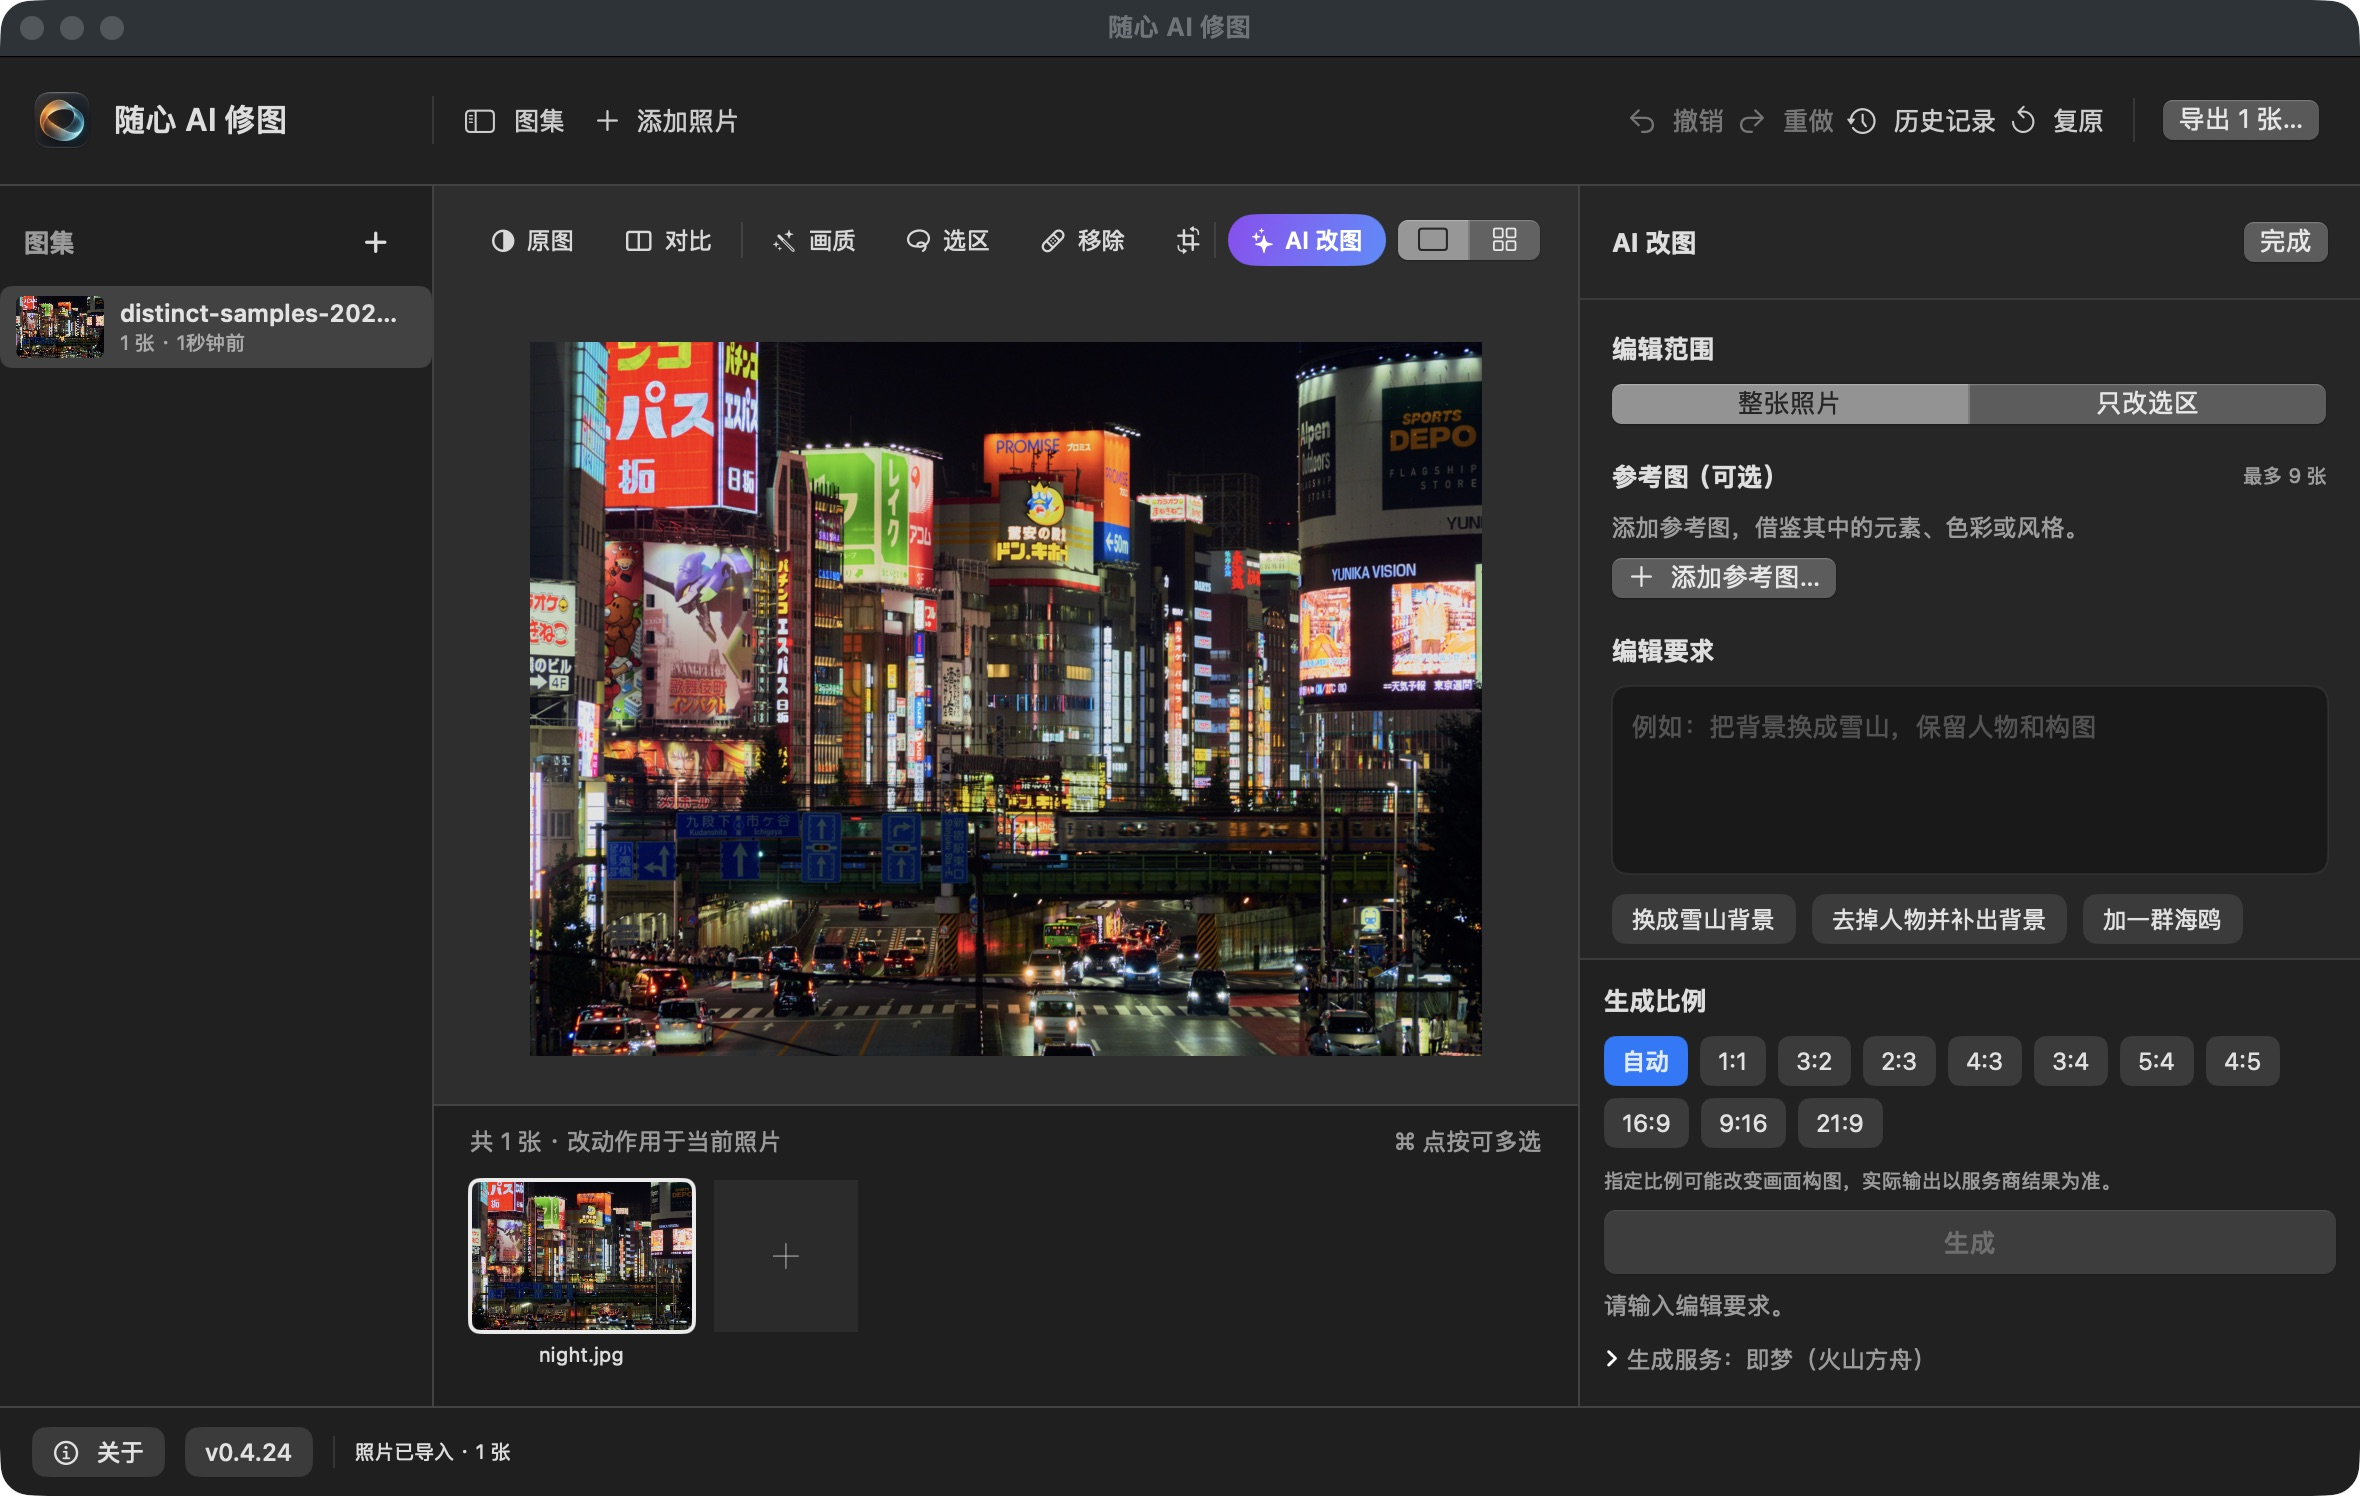
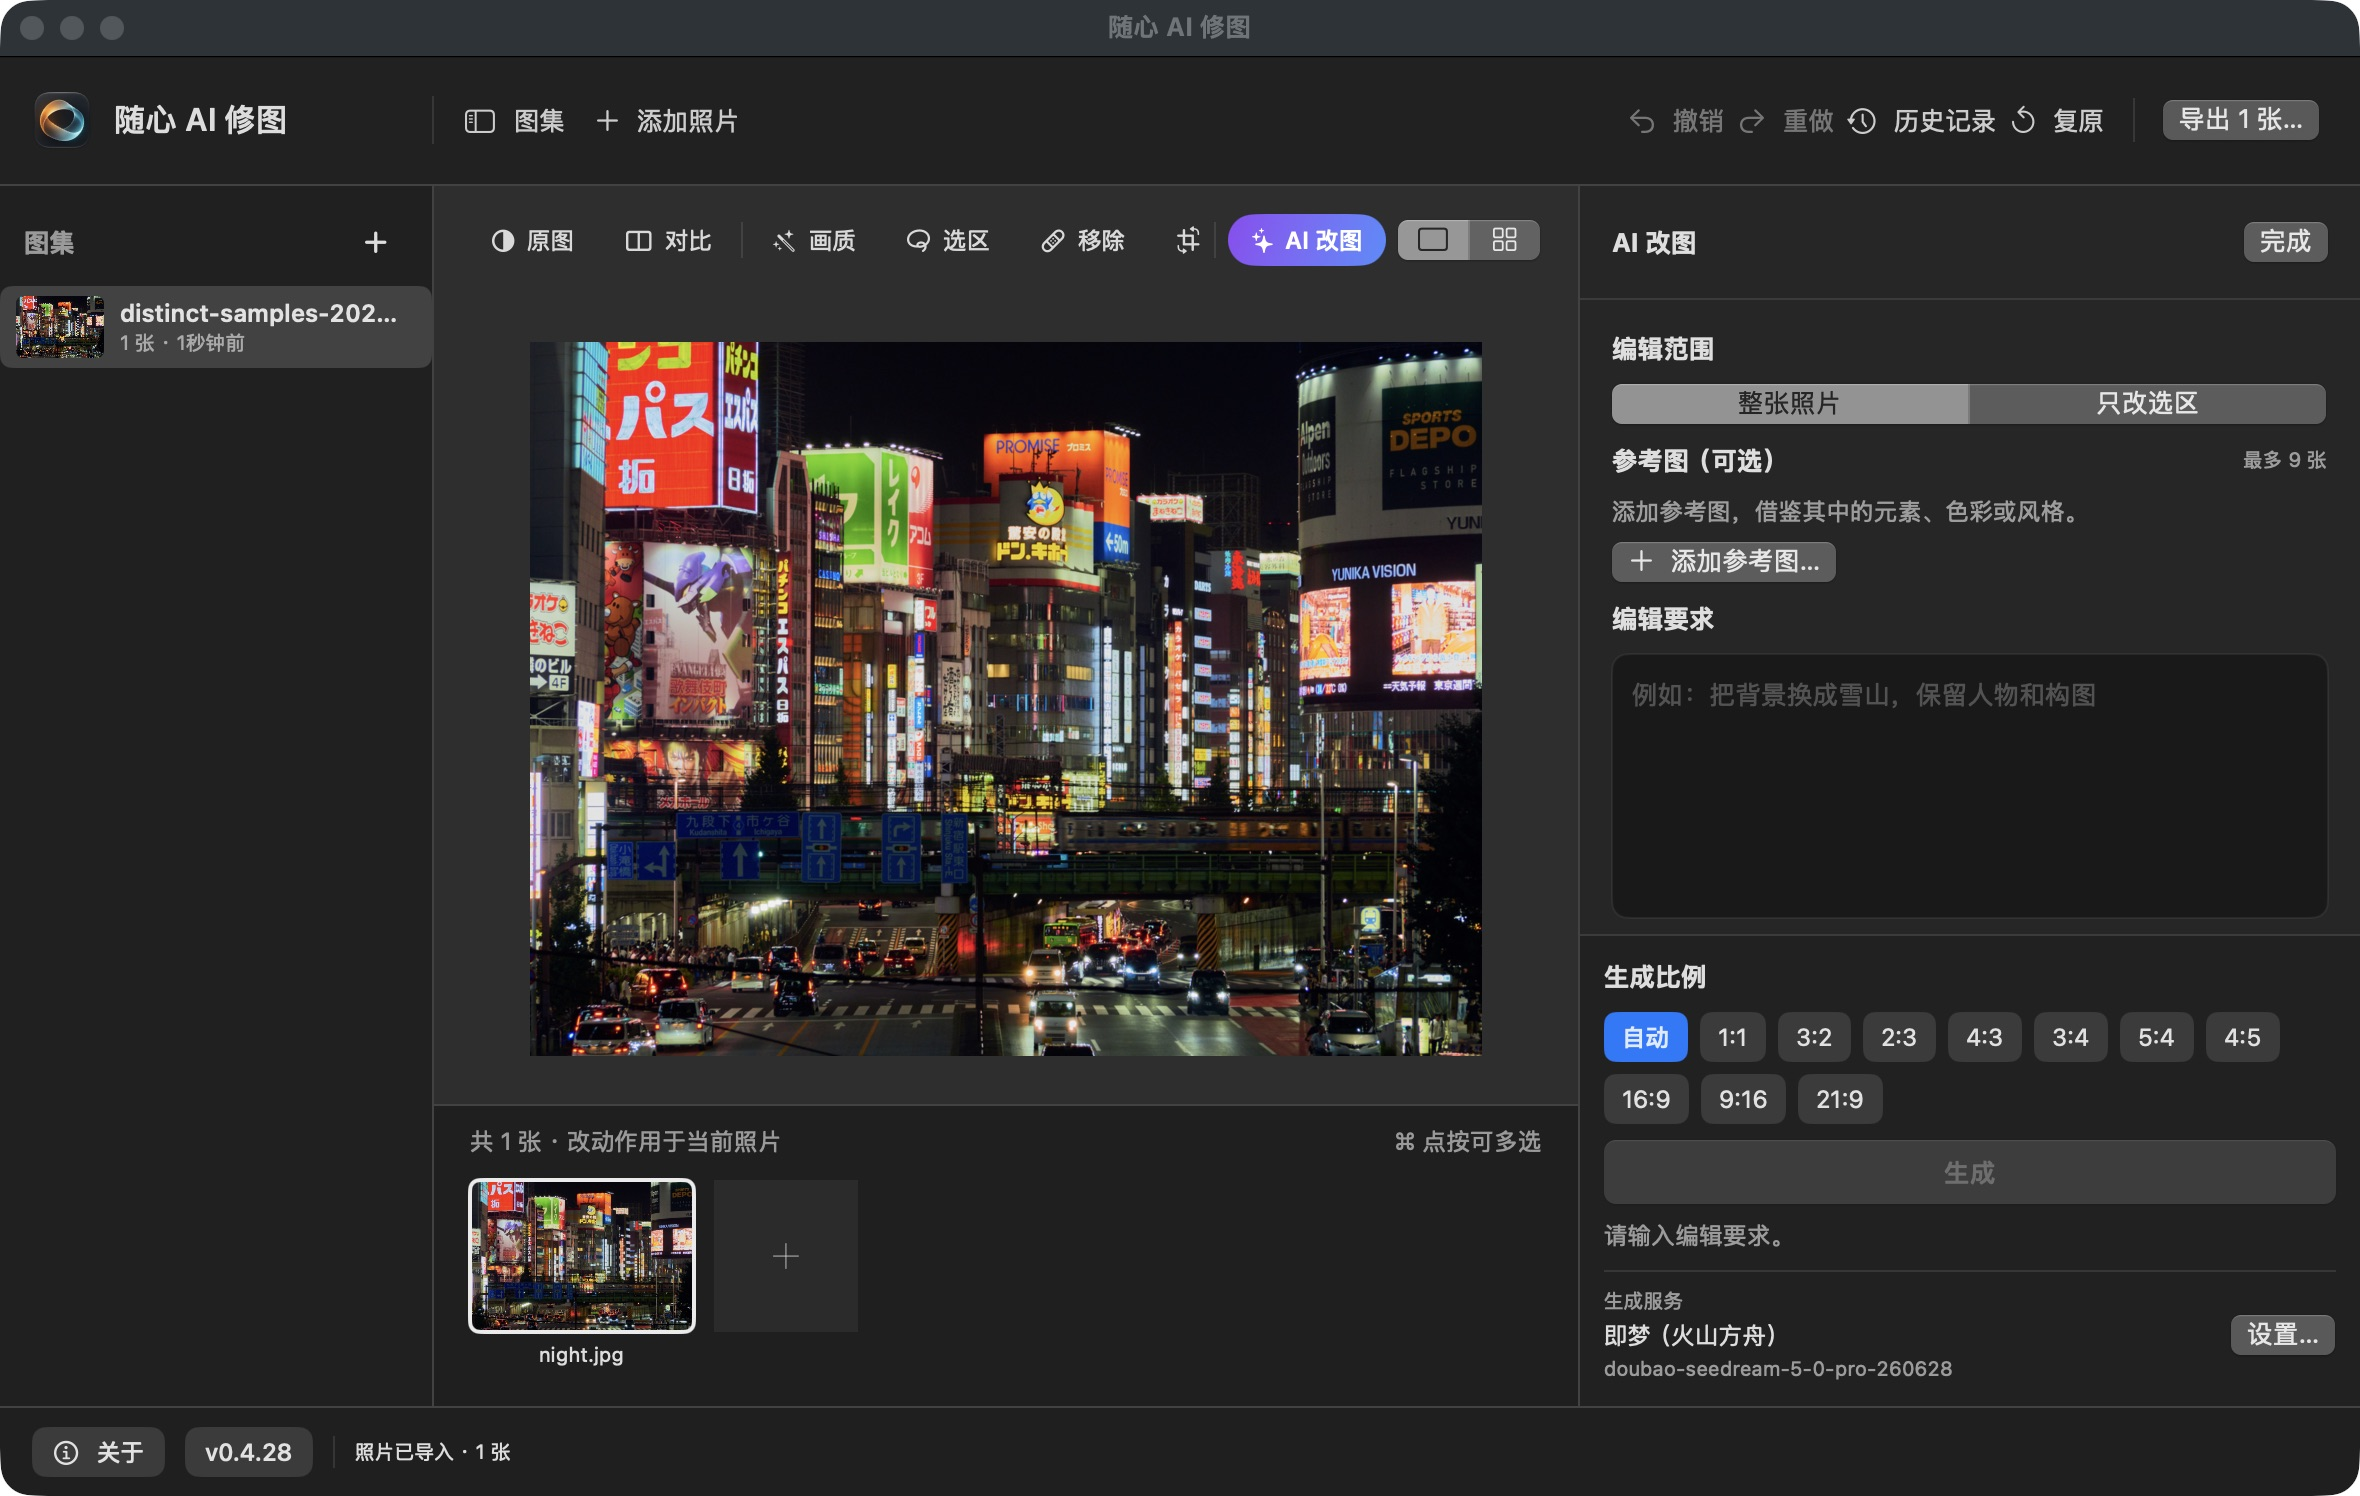
Keep edit controls visible and fix comparison state

Changed region(s): [[0.6805, 0.5842, 0.9898, 0.9225], [0.6805, 0.2767, 0.897, 0.492], [0.928, 0.3075, 0.9898, 0.3382]]

diff --git a/app/Sources/PhotoEdit/Views/AIEditPanel.swift b/app/Sources/PhotoEdit/Views/AIEditPanel.swift
@@ -29,7 +29,7 @@ struct AIEditPanel: View {
     var body: some View {
         VStack(spacing: 0) {
         ScrollView {
-            VStack(alignment: .leading, spacing: 18) {
+            VStack(alignment: .leading, spacing: 10) {
                 section("编辑范围") {
                     Picker("范围", selection: $onlySelection) {
                         Text("整张照片").tag(false)
@@ -171,8 +171,6 @@ struct AIEditPanel: View {
                                     .background(aspectRatio == ratio ? Color.accentColor : Color(white: 0.23), in: RoundedRectangle(cornerRadius: 6))
                             }
                         }
-                        Text("指定比例可能改变画面构图，实际输出以服务商结果为准。")
-                            .font(.caption).foregroundStyle(.secondary)
                     }
                 }
                 Button {
@@ -184,26 +182,22 @@ struct AIEditPanel: View {
                               || editor.isEmpty || (onlySelection && !hasSelection))
                 if store.imageServiceReady && onlySelection && !hasSelection { Text("请先选择编辑区域。") .font(.callout).foregroundStyle(.secondary) }
                 else if store.imageServiceReady && editor.isEmpty { Text("请输入编辑要求。") .font(.callout).foregroundStyle(.secondary) }
-                DisclosureGroup {
-                    Button("服务设置…") { store.settingsTab = "image" }.buttonStyle(.link)
-                    if let service, store.imageServiceReady {
-                        info("服务", service.title)
-                        info("模型", store.imageModelName.isEmpty ? service.defaultModel : store.imageModelName)
-                        info("发送内容", (chosenRatio != nil ? "不带调色的照片（含已应用的裁切和旋转）" : "不带调色的原片") + "，长边最多 2048 像素" + (referencePaths.isEmpty ? "" : "＋\(referencePaths.count) 张参考图（按缩略图顺序跟在后面）"))
-                        info("费用", service.paid ? "按\(service.title)的标准计费" : "不收费")
-                        info("结果", onlySelection && hasSelection ? "只替换选区里的部分，作为新版本，可撤销" : "整张新图，作为新版本，调色照常套用，可撤销")
-                    } else {
-                        HStack(spacing: 10) {
-                            Image(systemName: "exclamationmark.triangle.fill").foregroundStyle(.yellow)
-                            Text("还没设置 AI 改图 API").font(.callout.weight(.semibold)).foregroundStyle(.yellow)
-                            Spacer()
-                            Button("去设置") { store.settingsTab = "image" }.buttonStyle(.borderedProminent)
-                        }.padding(12).background(Color.yellow.opacity(0.12), in: RoundedRectangle(cornerRadius: 8))
+                Divider().padding(.top, 2)
+                HStack(alignment: .center, spacing: 10) {
+                    VStack(alignment: .leading, spacing: 3) {
+                        Text("生成服务").font(.caption).foregroundStyle(.secondary)
+                        if let service, store.imageServiceReady {
+                            Text(service.title).font(.callout)
+                            Text(store.imageModelName.isEmpty ? service.defaultModel : store.imageModelName)
+                                .font(.caption).foregroundStyle(.secondary).lineLimit(1).truncationMode(.middle)
+                        } else {
+                            Text("尚未设置").font(.callout).foregroundStyle(.secondary)
+                        }
                     }
-                } label: {
-                    Text(service.map { "生成服务：\($0.title)" } ?? "生成服务：未设置")
-                        .font(.callout).foregroundStyle(.secondary)
+                    Spacer(minLength: 8)
+                    Button("设置…") { store.settingsTab = "image" }.buttonStyle(.bordered)
                 }
+
         }.padding(12).background(Color(white: 0.13))
         }
         .onAppear {
@@ -277,7 +271,7 @@ struct AIEditPanel: View {
                           placeholder: "例如：把背景换成雪山，保留人物和构图",
                           onMention: { if !figures.isEmpty { showMention = true } },
                           onTyping: { if showMention { showMention = false } })
-                .frame(height: showMention ? 54 : 74)
+                .frame(height: showMention ? 88 : 112)
             if showMention { mentionList }
         }
         .padding(10)

diff --git a/app/Tests/RegionAnalysisTests.swift b/app/Tests/RegionAnalysisTests.swift
@@ -3,6 +3,25 @@ import Testing
 @testable import PhotoEdit
 
 @MainActor @Suite struct RegionAnalysisTests {
+    @Test func compareReplacesOriginalAndClearsHiddenOverlay() {
+        let store = WorkspaceStore(engine: EngineClient(root: URL(fileURLWithPath: "/nonexistent-suitone-test")))
+        let photo = ImportedPhoto(id: "photo", path: "/unused", name: "photo", thumbnail: "", original: "", width: 1, height: 1, similarTo: nil)
+        store.photos = [PhotoRecord(imported: photo, assetID: photo.id)]
+        store.currentID = photo.id
+        store.toggleOriginal()
+        store.toggleCompare()
+        #expect(store.splitCompare && !store.showOriginal)
+        store.toggleOriginal()
+        #expect(store.showOriginal && !store.splitCompare)
+        store.overlay = "sky"
+        store.toggleCompare()
+        #expect(store.splitCompare && !store.showOriginal && store.overlay.isEmpty)
+        store.toggleCompare()
+        #expect(!store.splitCompare)
+        store.inspectorTab = "crop"
+        #expect(!store.compareAvailable)
+    }
+
     @Test func failedAnalysisCanBeRetriedAndDoesNotRestartInFlight() async {
         let store = WorkspaceStore(engine: EngineClient(root: URL(fileURLWithPath: "/nonexistent-suitone-test")))
         let photo = ImportedPhoto(id: "photo", path: "/unused", name: "photo", thumbnail: "", original: "", width: 1, height: 1, similarTo: nil)

diff --git a/app/Sources/PhotoEdit/Views/ContentView.swift b/app/Sources/PhotoEdit/Views/ContentView.swift
@@ -124,10 +124,10 @@ private struct CanvasHeader: View {
     @Bindable var store: WorkspaceStore
     @ViewBuilder private func toolButtons(spacing: CGFloat) -> some View {
         HStack(spacing: spacing) {
-            chip("原图", "circle.lefthalf.filled", store.showOriginal, help: "按 \\ 切换整张原图") { store.showOriginal.toggle() }
+            chip("原图", "circle.lefthalf.filled", store.showOriginal, help: "按 \\ 切换整张原图") { store.toggleOriginal() }
             chip("对比", "rectangle.split.2x1", store.splitCompare && !store.grid,
-                 help: "拖动画面上的分隔线比较原图和调整后") { store.splitCompare.toggle() }
-                .disabled(store.grid)
+                 help: store.compareAvailable ? "拖动画面上的分隔线比较原图和调整后" : "请先完成当前工具，再查看对比") { store.toggleCompare() }
+                .disabled(!store.compareAvailable)
             Divider().frame(height: 18)
             chip("画质", "wand.and.stars", store.inspectorTab == "quality", help: "降噪与放大") { pick("quality") }
                 .disabled(store.current == nil || store.controlsBlocked)

diff --git a/app/Sources/PhotoEdit/Stores/WorkspaceStore.swift b/app/Sources/PhotoEdit/Stores/WorkspaceStore.swift
@@ -24,6 +24,24 @@ final class WorkspaceStore {
     /// 左右滑动对比：左侧原图、右侧调整后；splitPosition 为分隔线位置（0–1）。
     var splitCompare = false
     var splitPosition = 0.5
+    var compareAvailable: Bool {
+        current != nil && !grid && inspectorTab != "crop" && !repairEnabled && repairDraft == nil
+            && !(inspectorTab == "aiedit" && !selectionParts.isEmpty)
+    }
+    func toggleOriginal() {
+        showOriginal.toggle()
+        if showOriginal { splitCompare = false }
+    }
+    func toggleCompare() {
+        guard compareAvailable else { return }
+        if showOriginal || !overlay.isEmpty {
+            showOriginal = false
+            overlay = ""
+            splitCompare = true
+        } else {
+            splitCompare.toggle()
+        }
+    }
     var grid = false
     var busy = false
     var importing = false

diff --git a/app/Sources/PhotoEdit/App/PhotoEditApp.swift b/app/Sources/PhotoEdit/App/PhotoEditApp.swift
@@ -57,7 +57,7 @@ struct PhotoEditApp: App {
                 Button("重做") { store.redo() }.keyboardShortcut("z",modifiers:[.command,.shift]).disabled(!store.canRedo || store.controlsBlocked)
             }
             CommandMenu("照片") {
-                Button("显示／隐藏原图") { store.showOriginal.toggle() }.keyboardShortcut("\\",modifiers:[])
+                Button("显示／隐藏原图") { store.toggleOriginal() }.keyboardShortcut("\\",modifiers:[])
                 Button("保存快照") { store.snapshot() }.keyboardShortcut("k").disabled(store.current == nil)
                 Button("移除杂物") { store.inspectorTab = "repair" }.keyboardShortcut("r").disabled(store.current == nil || store.controlsBlocked)
                 Button("选择全部照片") { store.selectedIDs = Set(store.photos.map(\.id)) }.keyboardShortcut("a")

diff --git a/app/Sources/PhotoEdit/Views/InspectorView.swift b/app/Sources/PhotoEdit/Views/InspectorView.swift
@@ -43,6 +43,7 @@ struct InspectorView: View {
                 store.finishRepairTransition(to: tab)
                 if old == "cutout" { store.clearRepairSelection() }
                 store.repairEnabled = ["repair", "cutout", "selection"].contains(tab)
+                if !store.compareAvailable { store.splitCompare = false }
                 store.cutoutPreview = nil; store.cutoutSnapshot = nil
                 if tab == "cutout" { store.repairTool = "object" }
                 store.overlay = ""; store.showOriginal = false; store.localRegion = nil

diff --git a/CHANGELOG.md b/CHANGELOG.md
@@ -1,9 +1,9 @@
 # 更新记录
 
-## 0.4.24 · 2026-10-31（开发版）
+## 0.4.28 · 2026-10-31（开发版）
 
-- AI 改图在底部直接选择生成比例，将服务设置放在生成按钮下方；选区编辑和 Ideogram 精确编辑保持输入比例。
-- 旋转预览复用调色结果，减少重复计算。
+- AI 改图在底部直接选择生成比例，加高编辑要求输入框，将服务设置放在生成按钮下方；选区编辑和 Ideogram 精确编辑保持输入比例。
+- 旋转预览复用调色结果，减少重复计算；修复原图与对比状态冲突导致需要多点一次的问题。
 - 优化 Topaz 外部编辑准备过程；画布工具栏将“原图”置于“对比”左侧。
 
 ## 0.4.21 · 2026-10-31（开发版）
